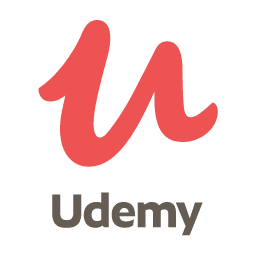
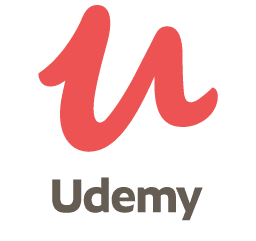
Changing content of courses, jumbotron, skills components

diff --git a/src/db.js b/src/db.js
@@ -59,24 +59,24 @@ export const db = {
             "img": require("./Photos/freecodecamp.jpeg"),
             "period": "Feb 2018 - Present",
             "title": "freeCodeCamp",
-            "listTitle": "Contracted technical writer at DigitalOcean with a focus on JavaScript, DOM manipulation, and Node.js.",
-            "li": ["Writes guides, articles, and tutorials on the JavaScript programming language, including fundamentals, concepts, syntax, and DOM manipulation", "Helped shape the curriculum of JavaScript content by collaborating with the in-house team"]
+            "listTitle": "As a begginer I've started to leart code with FreeCodeCamp. This course helps me to acquaint with: ",
+            "li": ["Responsive Web Design", "Javascript Algorithms And Data Structures", "Front End Libraries"]
         },
         {
             "id": "2",
             "img": require("./Photos/udemy.png"),
             "period": "January 2018",
             "title": "The web developer bootcamp",
-            "listTitle": "Full stack web developer working with HTML, CSS/SCSS, JavaScript/jQuery, PHP, MySQL, and WordPress on AWS. Responsibilities include designing and developing websites, Linux system administration, back end maintenance, and communication.",
-            "li": ["Used the latest HTML5/CSS3 and JavaScript standards to develop custom, responsive websites", "Designed complete website mockups in Adobe Illustrator/Photoshop and utilized a Sass and Gulp workflow to accurately and efficiently develop the front end", "Successfully migrated 60+ websites to the Amazon Web Services cloud ecosystem, set up and installed all server software for development", "Implemented the WCAG 2.0 accessibility standards for ADA compliance"],
+            "listTitle": "Using materials of this course I've learnt how to use HTML, CSS, JS, jQuery and Bootstrap libraries in real projects. The most usefull for me was creating color-game and to-do-list projets. Also I've learnt more about:",
+            "li": ["Flexbox and greed system", "Object and arrays", "JS methods"],
         },
         {
             "id": "3",
             "img": require("./Photos/WordPress.png"),
             "period": "January 2019",
             "title": "Create a Blog with WordPress",
-            "listTitle": "Full stack web developer working with HTML, CSS/SCSS, JavaScript/jQuery, PHP, MySQL, and WordPress on AWS. Responsibilities include designing and developing websites, Linux system administration, back end maintenance, and communication.",
-            "li": ["Used the latest HTML5/CSS3 and JavaScript standards to develop custom, responsive websites", "Designed complete website mockups in Adobe Illustrator/Photoshop and utilized a Sass and Gulp workflow to accurately and efficiently develop the front end", "Successfully migrated 60+ websites to the Amazon Web Services cloud ecosystem, set up and installed all server software for development", "Implemented the WCAG 2.0 accessibility standards for ADA compliance"],
+            "listTitle": "I'got this courses to understand how Wordpress works and what it is in general. I've learnt about: ",
+            "li": ["Setting site (writing, reading, comments)", "How to delete unnecessary content (rather in footer)", "Creating new blocks with differnt elements and styling it", "Using widgest and plugins"],
         }
     ],
     "projects": [{

diff --git a/src/components/Jumbotron/Jumbotron.jsx b/src/components/Jumbotron/Jumbotron.jsx
@@ -13,9 +13,11 @@ class Jumbotron extends Component {
           </h1>
         </header>
         <blockquote>
-          Hi, I'm <span className="accented-words color-blue">Iryna</span>! I
-          design and develop{" "}
-          <span className="accented-words color-blue">websites.</span>
+          Hi, I'm <span className="accented-words color-blue">Iryna</span>!<br /> 
+          I'd like to get a <span className="accented-words color-blue">web developer</span> position  with an IT company <br />
+          to use my skills in developing and maintaining functional <span className="accented-words color-blue">websites </span><br />
+          and learn new technology as well.
+          
         </blockquote>
         <button className="btn-default">
           <a href="#contact"> Get in Touch </a>

diff --git a/src/components/Skills/Skills.jsx b/src/components/Skills/Skills.jsx
@@ -7,8 +7,7 @@ class Skills extends Component {
         return ( 
             <section className="blue-body" id="skills">
                 <header>Technical Skills</header>
-                <blockquote>I specialize in front-end development, with knowledge in <br/>
-                system administration.</blockquote>
+                <blockquote>Good understanding of web-related technologies...</blockquote>
                 <div className="container">
                     <div className="row">
                         { this.props.skills.map(li => <figure key={li.id} className="box">

diff --git a/src/components/Courses/Courses.jsx b/src/components/Courses/Courses.jsx
@@ -10,7 +10,7 @@ class Courses extends Component {
         return (
             <section className="white-body" id="courses">
                 <header>Courses</header>
-                <blockquote>Some of the courses I've been learning.</blockquote>
+                <blockquote>Some of the courses help me to develop my front-end skills.</blockquote>
                     {this.props.courses.map(el =>
                         <div key={el.id} className="container">
                             <div className="boxes-row">

diff --git a/src/components/Courses/Courses.css b/src/components/Courses/Courses.css
@@ -17,7 +17,7 @@
 }
 .logotype{
     margin: 0;
-    padding-top: 15px;
+    padding-top: 7px;
     width: 100%;
     max-width: 320px;
     line-height: 0em;
@@ -31,7 +31,13 @@
 }
 .information h3{
     text-transform: capitalize;
+    margin: 0;
 }
+.information p, ul{
+    margin: 5px;
+    line-height: 2;
+}
+
 hr{
     border: 0;
     height: 0;
@@ -39,7 +45,7 @@ hr{
     border-bottom: 1px solid rgba(255, 255, 255, 0.3);
 }
 .logotype img{
-    width: 50%;
+    width: 40%;
  
 }
 

diff --git a/src/components/Portfolio/Portfolio.jsx b/src/components/Portfolio/Portfolio.jsx
@@ -7,7 +7,7 @@ class Portfolio extends Component {
     return (
       <section className="blue-body" id="portfolio">
         <header>Portfolio</header>
-        <blockquote>Here are a few examples of my work.</blockquote>
+        <blockquote>Here are a few examples of my projects.</blockquote>
         <div className="container">
           <div className="row">
             {this.props.projects.map(el => (
